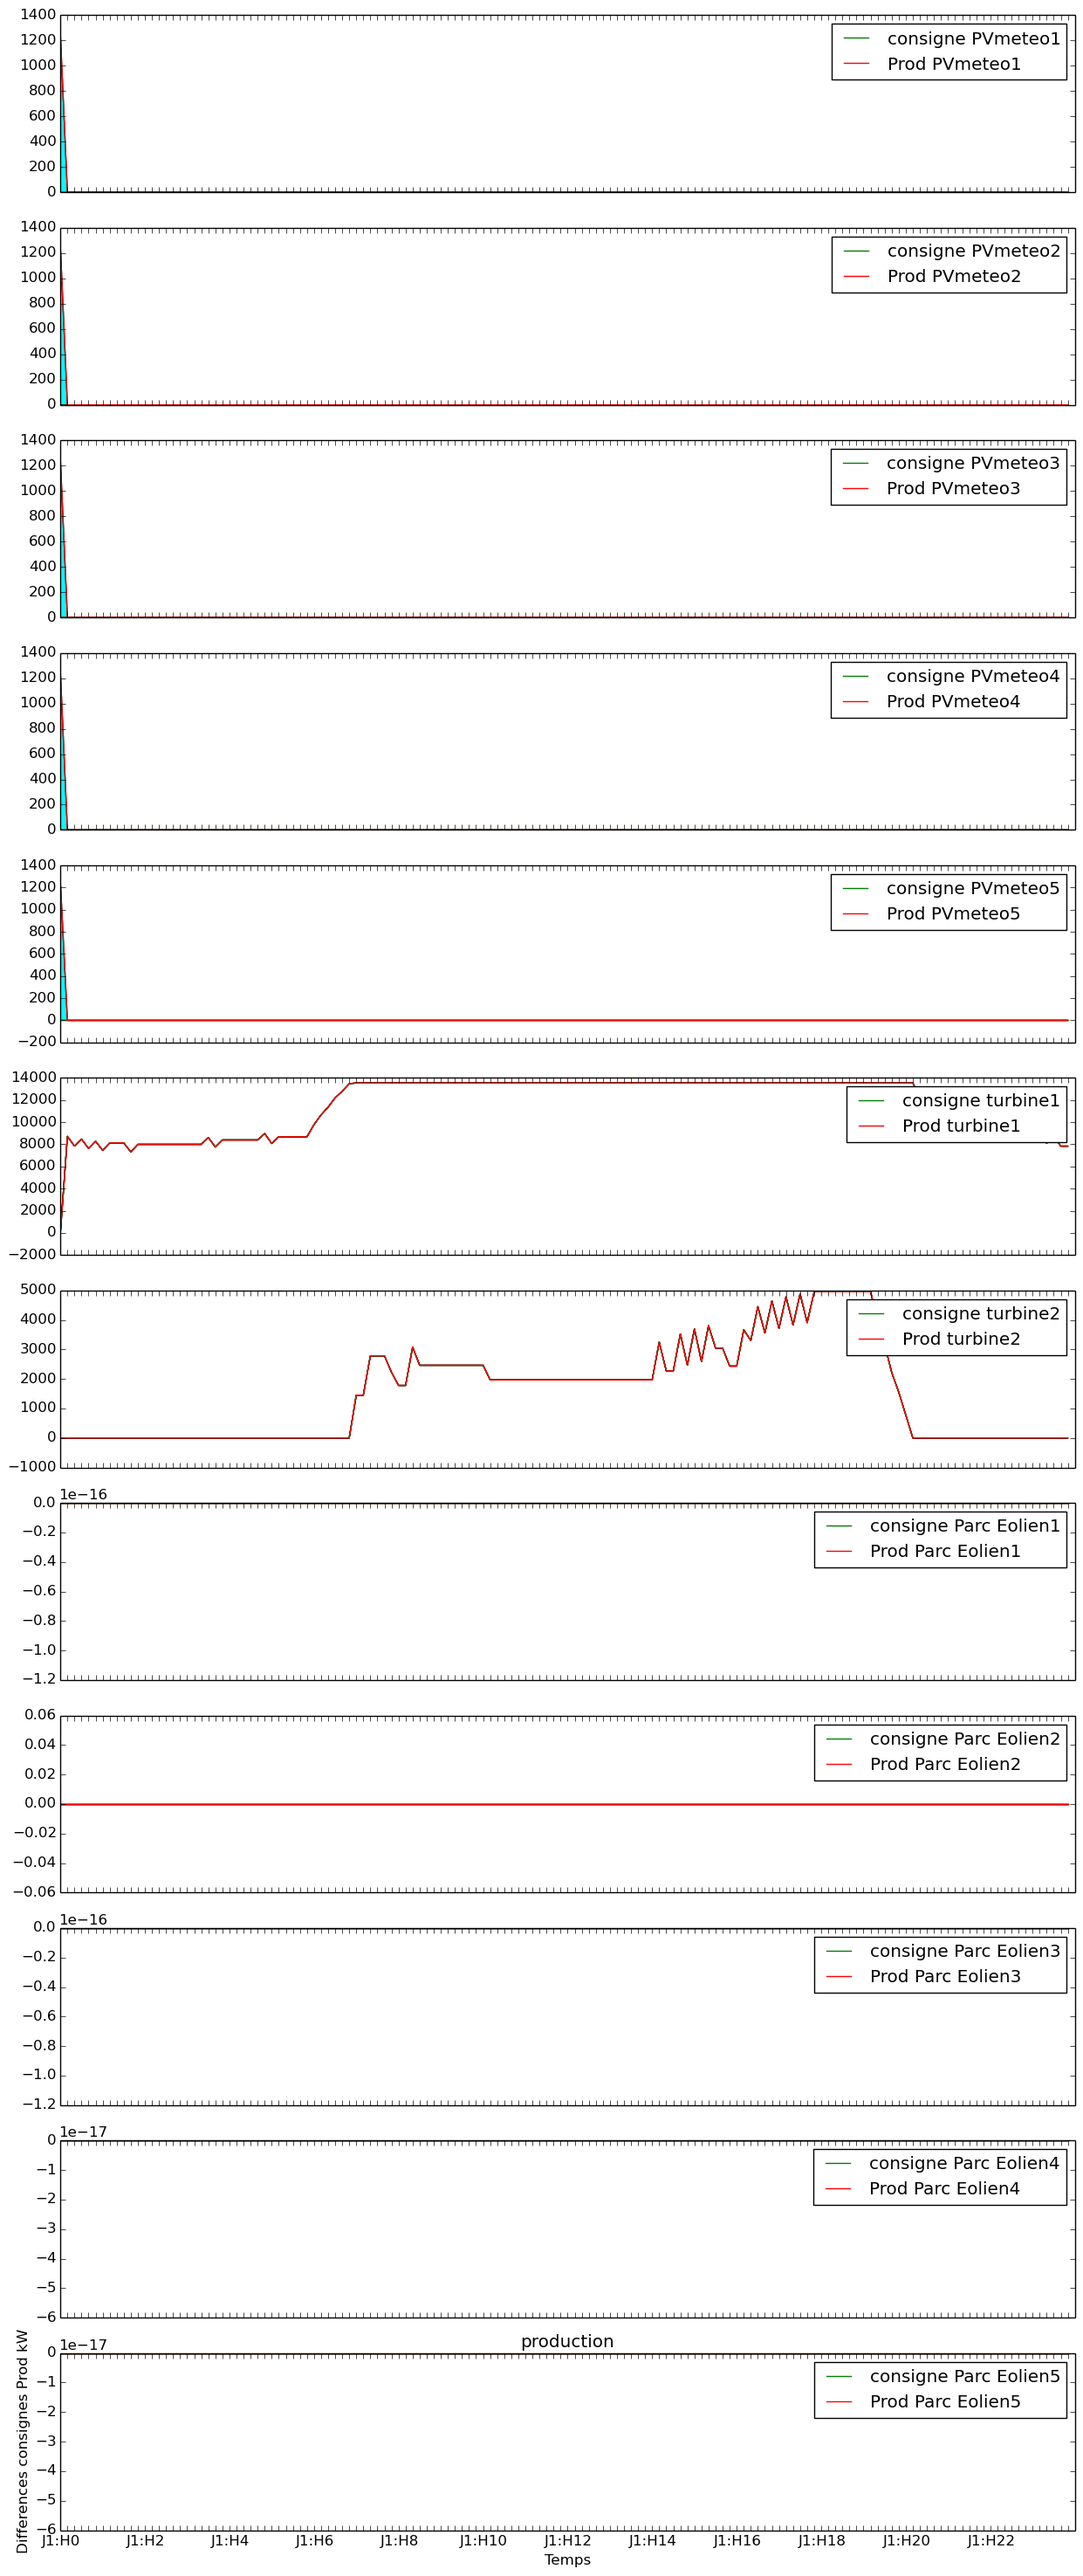
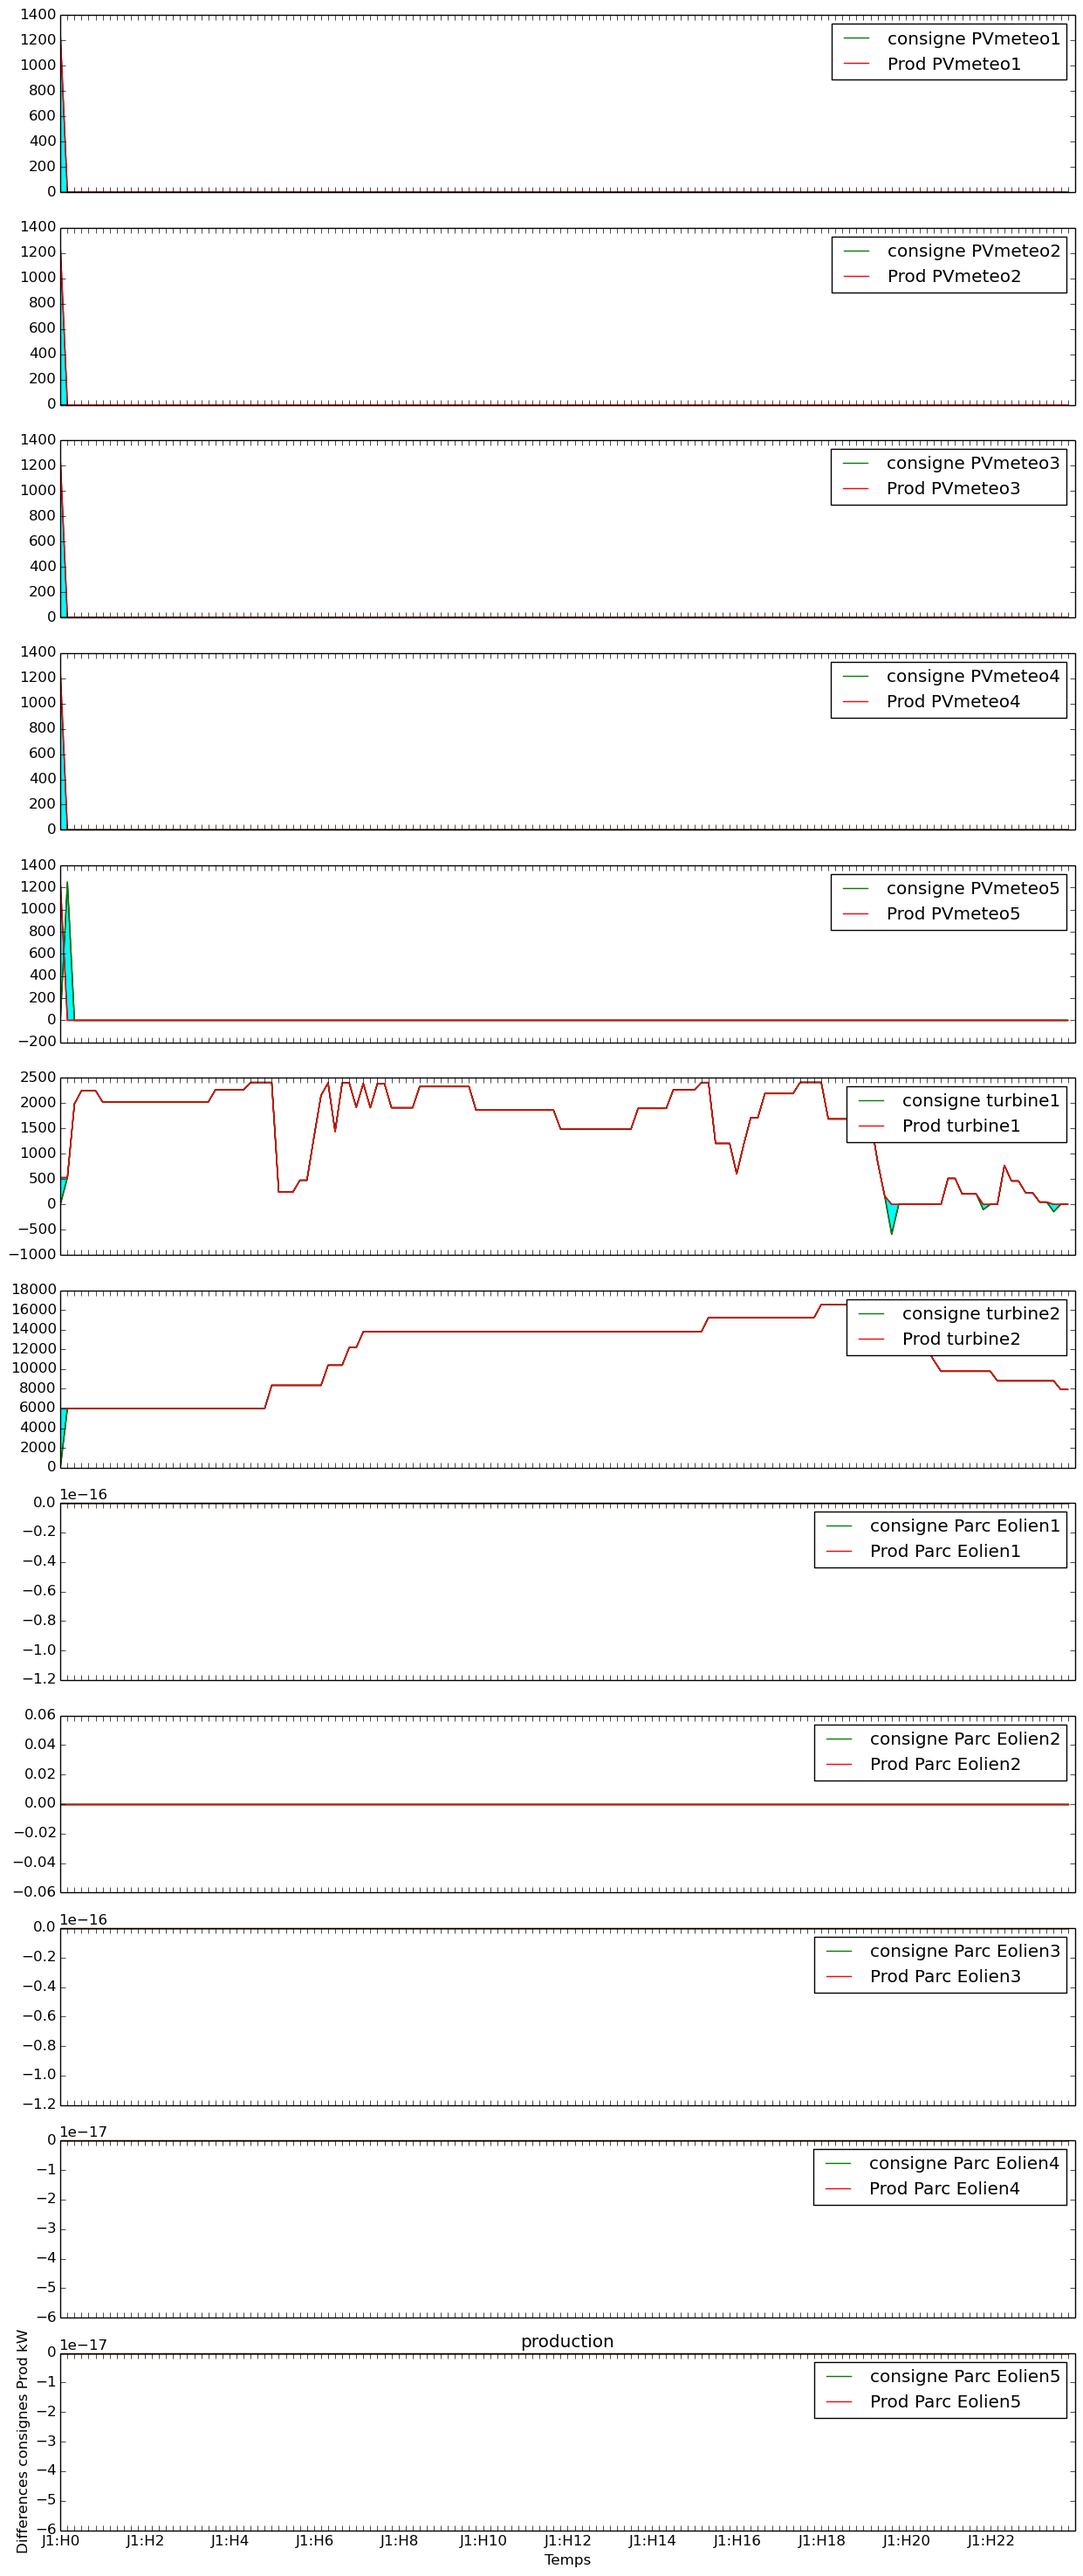
mod

diff --git a/Equipement/ParcTurbineAGaz.py b/Equipement/ParcTurbineAGaz.py
@@ -1,6 +1,6 @@
 # -*-coding:utf-8 -
 class ParcTurbineAGaz:
-    def __init__(self,nom="turbine_a_gaz",prod=885.,effa=0.,activite=0.,varcout = 1., nombre=3., ):
+    def __init__(self,nom="turbine_a_gaz",prod=885.,effa=0.,activite=20.,varcout = 1., nombre=3., ):
         self.nom=nom
         self.nombre=nombre
         self.varcout=varcout
@@ -12,8 +12,10 @@ class ParcTurbineAGaz:
         self.arret=[100.,100.,100.,100.,100.,100.,100.,100.,100.,30.71,0.,0.,0.,0.,0.,0.,0.,0.,0.,0.,0.,0.,0.,0.,0.,0.,0.,0.,0.,0.] #courbe d'arrêt
         self.cout=self.varcout*self.activite/100.*self.PROD_MAX*(80./1000./6.)*self.nombre
         
-    def prevision(self,consigne=0.,effacement=0.):
-        if consigne > self.activite: #si on veut augmenter la puissance, on place l'activité actuelle sur la courbe de montée en puissance et on en déduit l'état à t+10min
+    def prevision(self,consigne=0.,effacement=-1.):
+        if consigne==0 and effacement==-1:
+            return (self.activite,self.varcout*self.activite/100.*self.PROD_MAX*(80./1000./6.)*self.nombre)
+        elif consigne > self.activite: #si on veut augmenter la puissance, on place l'activité actuelle sur la courbe de montée en puissance et on en déduit l'état à t+10min
             i=0
             while self.activite > self.demarrage[i]:
                 i+=1

diff --git a/Ville.py b/Ville.py
@@ -24,7 +24,7 @@ class Ville:
 		                        ParcSolaire(nom="PVmeteo4",prod=250.,activite=50.,nb=10.,meteo=meteo4),\
 		                        ParcSolaire(nom="PVmeteo5",prod=250.,activite=50.,nb=10.,meteo=meteo5),\
 		                        ParcTurbineAGaz("turbine1",varcout=1.),\
-		                        ParcTurbineAGaz("turbine2",varcout=1.13),\
+		                        ParcTurbineAGaz("turbine2",varcout=1.13,prod=10000),\
 		                        ParcEolien(nom="eolienne,meteo1",n=500., eolienne="eolienne5", meteoVent=meteo1),\
 		                        ParcEolien(nom="eolienne,meteo2",n=5., eolienne="eolienne1500", meteoVent=meteo2),\
 		                        ParcEolien(nom="eolienne,meteo3",n=500., eolienne="eolienne5", meteoVent=meteo3),\
@@ -33,7 +33,9 @@ class Ville:
 		self.equipConso = [ParcUsine38("Usine2-38"),\
 						   ParcMaison("parcmaison1",nombre=1200),\
 		                   ParcUsine("Usine1"),\
-		                   ParcEclairagePublic(nombre=2400),Hopital(),ParcMagasins()]
+		                   ParcEclairagePublic(nombre=2400),\
+		                   #Hopital(),\
+		                   ParcMagasins()]
 		self.equipStockage = [Stockage()]#,ParcBatterieLithiumIon()]
 		self.nombreEquipementProduction = len(self.equipProduction)
 		self.nombreEquipementConso = len(self.equipConso)

diff --git a/main.py b/main.py
@@ -69,11 +69,10 @@ while Global.temps < duree-1: #boucle principale
     effacement_actuel = 0.
     
     consigne = [i.activite for i in ville.equipProduction] # liste des consignes equipements de production
+    #consigne = [i.prevision()[0] for i in ville.equipProduction] # liste des consignes equipements de production
     simulations = [i.simulation() for i in ville.equipProduction] #liste représentant les equipements de production pour l'etape suivante
-    
     consigne_stock = [i.activite for i in ville.equipStockage] # "" de stockage
     simulations_stock=[i.simulation() for i in ville.equipStockage]
-    
     consigne_conso = [0. for i in range(len(ville.equipConso))] # "" de consommation étalonné sans effacement
     simulations_conso = [i.simulation() for i in ville.equipConso]
 

diff --git a/Equipement/ParcSolaire.py b/Equipement/ParcSolaire.py
@@ -12,7 +12,7 @@ class ParcSolaire(Equipement):
         self.meteo = meteo
         self.meteoliss=[]
         for i in range (len(meteo)-1):
-            self.meteoliss.append(1/2*(meteo[i]["GHI"]+meteo[i+1]["GHI"]))
+            self.meteoliss.append(0.5*(meteo[i]["GHI"]+meteo[i+1]["GHI"]))
         self.meteoliss.append(meteo[len(meteo)-1]["GHI"])
         '''nom du Parc'''
         self.nom = nom
@@ -22,7 +22,7 @@ class ParcSolaire(Equipement):
         self.effacement = 0.
         self.cout = 0.001*self.nombre
         
-    def prevision(self, consigne, effacement):
+    def prevision(self, consigne=0, effacement=0):
         """retourne l'activité à l'état suivant en pourcentage par rapport à PROD_MAX"""
         return (self.calculActivite(Global.temps+1), self.cout)
     

diff --git a/Equipement/Hopital.py b/Equipement/Hopital.py
@@ -39,7 +39,7 @@ class Hopital(Equipement):
         else:
             if (self.temps_effa>=3 or 0<self.temps_dernier_effa<18):
                 self.effacement = 0.
-                self.activite = self.production[temps]
+                self.activite = self.production[Global.temps]
                 self.temps_effa = 0
                 self.temps_dernier_effa += 1
             else:

diff --git a/Equipement/ParcEolien.py b/Equipement/ParcEolien.py
@@ -43,7 +43,7 @@ class ParcEolien(Equipement):
 		self.activite = 0
 
 
-	def prevision(self):
+	def prevision(self,consigne=0,prevision=0):
 
 		"""On va chercher la liste des vitesses croissantes"""
 		listVitesse = list(self.dictPV.keys())
